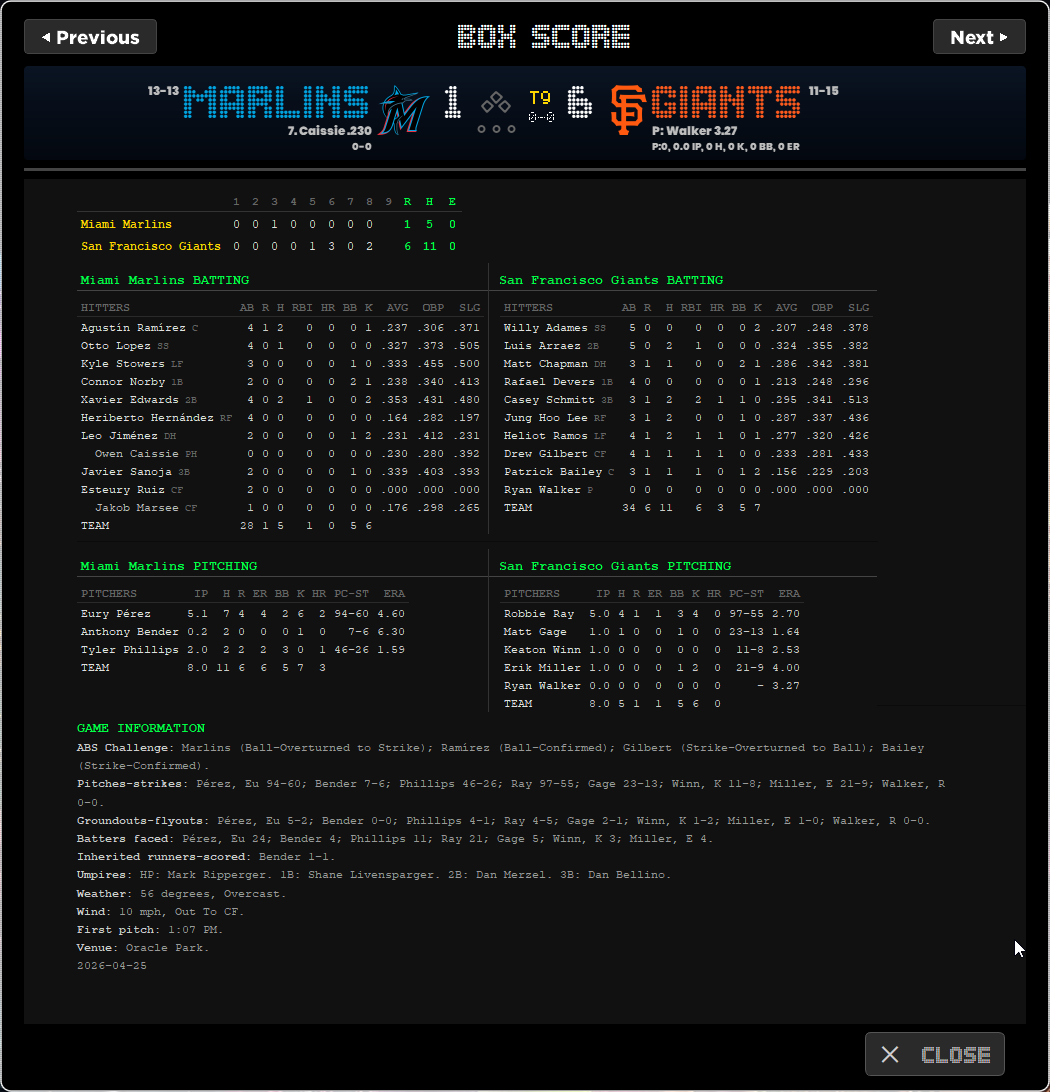
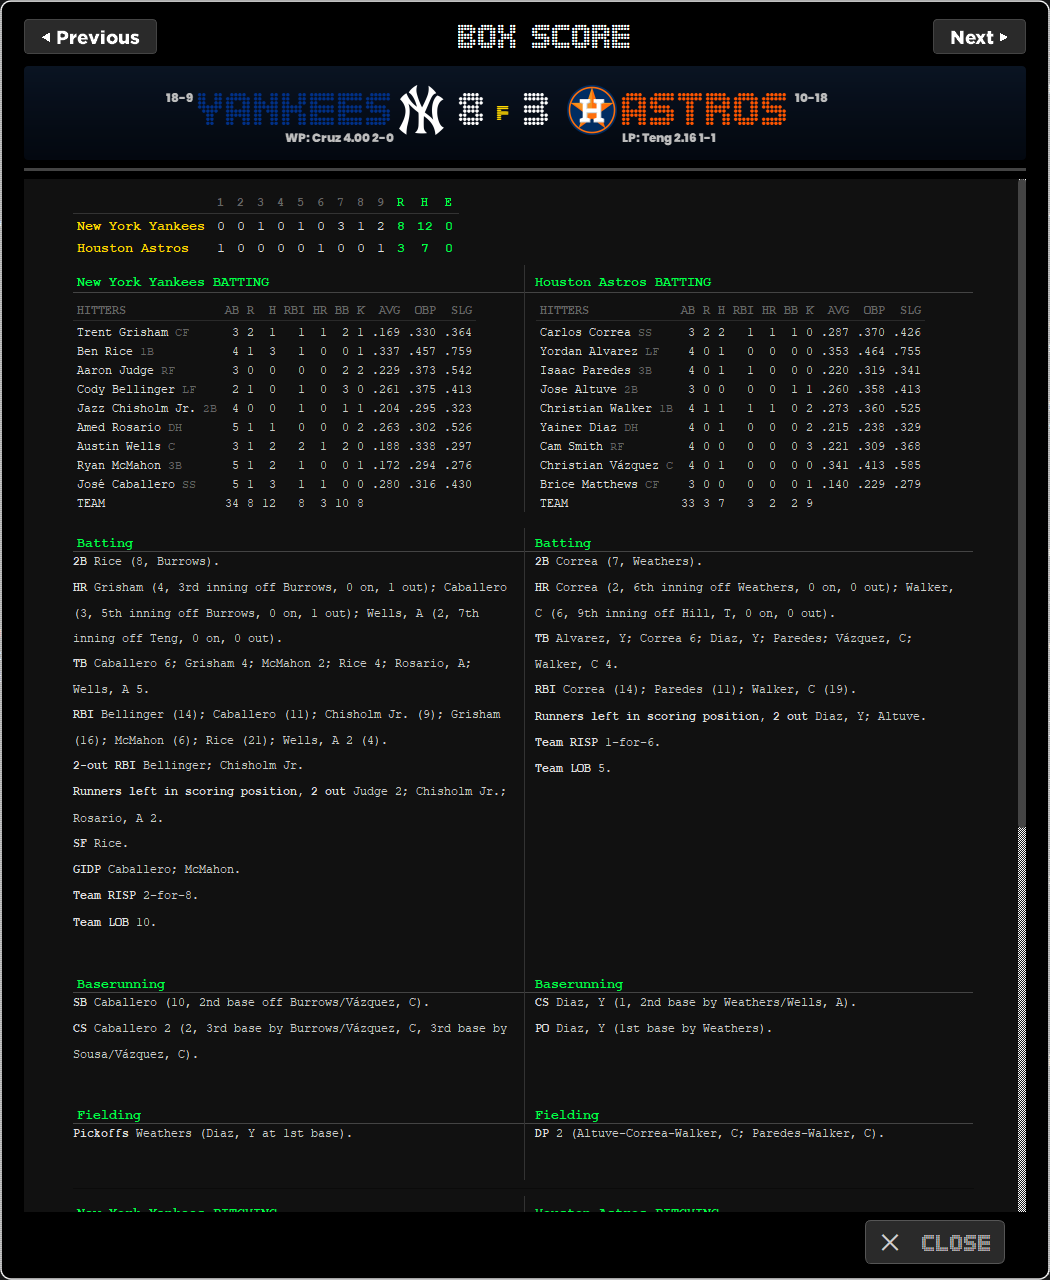
v1.5 Added complete Box Scores!

diff --git a/docs/index.html b/docs/index.html
@@ -28,6 +28,7 @@
       <div class="nav-links">
         <a href="#features">Features</a>
         <a href="#standings">Standings</a>
+        <a href="#boxscores">Box Scores</a>
         <a href="#tvradio">TV &amp; Radio</a>
         <a href="#highlights">Highlights</a>
         <a href="#download">Download</a>
@@ -69,7 +70,7 @@
   </header>
 
   <section class="features" id="features">
-    <h2 class="section-title">All the game energy,<br/>without the clutter.</h2>
+    <h2 class="section-title">All the game energy,<br/>pixel perfect.</h2>
     <p class="section-sub">Designed to feel like a modern sports-bar ticker on your own desktop.</p>
 
     <div class="features-grid">
@@ -148,16 +149,25 @@
   </section>
 
   <section class="standings-showcase" id="standings">
-    <h2 class="section-title">Standings. Just one keystroke away.</h2>
-    <p class="section-sub">Switch between American League and National League with a single click. Every division, every team, live.</p>
+    <h2 class="section-title">Standings. If you're not first, you're last.</h2>
+    <p class="section-sub">Press S and then switch between American League and National League with a single click. Every division, every team, live.</p>
     <div class="standings-img-wrap">
       <img src="standings.png" alt="MLB-TCKR Standings Window" class="standings-img" id="standings-rotating-img" />
       <span class="screenshot-label">AL &amp; NL Standings window with live division data</span>
     </div>
   </section>
 
+  <section class="standings-showcase" id="boxscores">
+    <h2 class="section-title">Box Scores. All the numbers and some letters too.</h2>
+    <p class="section-sub">Press <kbd>B</kbd> or double-click on your team in the ticker for live box scores updated in real-time. Yesterday&rsquo;s box scores available too.</p>
+    <div class="standings-img-wrap">
+      <img src="boxscore.png" alt="MLB-TCKR Box Score Window" class="standings-img" />
+      <span class="screenshot-label">Box Score with live and historical data</span>
+    </div>
+  </section>
+
   <section class="standings-showcase" id="tvradio">
-    <h2 class="section-title">TV, Radio &amp; SiriusXM. Every game, every channel.</h2>
+    <h2 class="section-title">TV, Radio &amp; SiriusXM guide Every game, every channel.</h2>
     <p class="section-sub">Press <kbd>M</kbd> or right-click the tray to open the broadcast guide. TV call signs, radio stations with frequencies, and SiriusXM satellite &amp; app channels &mdash; for today or tomorrow.</p>
     <div class="standings-img-wrap">
       <img src="tvradioxm.png" alt="MLB-TCKR TV/Radio/XM Schedule Window" class="standings-img" />
@@ -180,7 +190,7 @@
   </section>
 
   <section class="how-it-works">
-    <h2 class="section-title">Ready in minutes.</h2>
+    <h2 class="section-title">Ready in seconds.</h2>
     <p class="section-sub">Fast to launch, easy to personalize, built for everyday baseball fans.</p>
 
     <div class="steps-grid">

diff --git a/MLB-TCKR.py b/MLB-TCKR.py
@@ -1,7 +1,7 @@
 """
 Author: Paul R. Charovkine
 Program: MLB-TCKR.py
-Date: 2026.0426.0110
+Date: 2026.0426.0919
 License: GNU AGPLv3
 
 Description:
@@ -6565,7 +6565,7 @@ class BoxScoreWindow(QtWidgets.QWidget):
             "QPushButton:hover { background:#3a3a3a; color:#ffffff; }"
             "QPushButton:pressed { background:#111; }"
         )
-        close_btn.clicked.connect(lambda: self.close())
+        close_btn.clicked.connect(lambda: self.close()) # type: ignore
         close_row.addWidget(close_btn)
         # Resize grip in bottom-right corner
         _grip = QtWidgets.QSizeGrip(self)
@@ -6835,13 +6835,13 @@ class BoxScoreWindow(QtWidgets.QWidget):
         css = """
         <style>
         body { background:#111; color:#e0e0e0; font-family:'Courier New',monospace;
-               font-size:12px; margin:8px; }
+               font-size:13px; margin:8px; }
         table { border-collapse:collapse; }
         /* ── centring wrapper (unused – kept for fallback) ── */
         .center-wrap { max-width:900px; }
         /* ── line score ── */
         .ls { width:100%; margin-bottom:6px; }
-        .ls th { color:#666; text-align:center; padding:3px 6px; font-size:11px;
+        .ls th { color:#666; text-align:center; padding:3px 6px; font-size:12px;
                  border-bottom:1px solid #333; }
         .ls td { text-align:center; padding:3px 6px; }
         .ls .tn { text-align:left; color:#FFD700; font-weight:bold;
@@ -6849,20 +6849,20 @@ class BoxScoreWindow(QtWidgets.QWidget):
         .ls .rhe { color:#00FF44; font-weight:bold; }
         .ls .inn0 { color:#555; }
         /* ── decisions ── */
-        .dec { margin:4px 0 8px; font-size:12px; }
+        .dec { margin:4px 0 8px; font-size:13px; }
         .win  { color:#00FF44; }
         .loss { color:#FF4444; }
         .save { color:#FFD700; }
         /* ── main two-column layout table ── */
         .layout { width:100%; border-collapse:collapse; }
         /* section header cells — aligned on the same row */
-        .sh-cell { color:#00FF44; font-weight:bold; font-size:13px;
+        .sh-cell { color:#00FF44; font-weight:bold; font-size:14px;
                    padding:8px 4px 3px; border-bottom:1px solid #444;
                    width:50%; vertical-align:bottom; }
         .sh-cell.div { border-left:1px solid #333; padding-left:10px; }
         /* sub-section header cells (Batting / Baserunning / Fielding) */
-        .sub-sh-cell { color:#CCCCCC; font-weight:bold; font-size:12px;
-                       padding:6px 4px 1px; border-bottom:1px solid #222;
+        .sub-sh-cell { color:#00FF44; font-weight:bold; font-size:14px;
+                       padding:6px 4px 1px; border-bottom:1px solid #444;
                        vertical-align:bottom; }
         .sub-sh-cell.div { border-left:1px solid #333; padding-left:10px; }
         /* stat and notes content cells */
@@ -6872,32 +6872,32 @@ class BoxScoreWindow(QtWidgets.QWidget):
         .notes-col.div { border-left:1px solid #333; padding-left:10px; }
         /* ── stats tables ── */
         .st { width:100%; margin-top:4px; }
-        .st th { color:#666; text-align:right; padding:2px 4px; font-size:11px;
+        .st th { color:#666; text-align:right; padding:2px 4px; font-size:12px;
                  border-bottom:1px solid #2a2a2a; white-space:nowrap; }
         .st th.lc { text-align:left; }
-        .st td { padding:2px 4px; text-align:right; font-size:11px;
+        .st td { padding:2px 4px; text-align:right; font-size:12px;
                  color:#ccc; white-space:nowrap; }
         .st td.lc { text-align:left; color:#e0e0e0; }
         .st tr:nth-child(even) { background:#181818; }
         .st tr.tot { color:#888; border-top:1px solid #2a2a2a; }
-        .pos { color:#666; font-size:10px; }
+        .pos { color:#666; font-size:11px; }
         .sub { color:#bbb; }
         /* ── notes ── */
-        .notes { color:#ccc; font-size:11px; padding:3px 0 2px; line-height:1.65; }
+        .notes { color:#ccc; font-size:12px; padding:3px 0 2px; line-height:1.65; }
         .notes b { color:#e0e0e0; }
         /* ── pitcher decision badges ── */
-        .win-dec  { color:#39ff14; font-size:10px; }
-        .loss-dec { color:#ff5555; font-size:10px; }
-        .save-dec { color:#f5d131; font-size:10px; }
-        .hold-dec { color:#8FBCE6; font-size:10px; }
-        .bsv-dec  { color:#FFA550; font-size:10px; }
+        .win-dec  { color:#39ff14; font-size:11px; }
+        .loss-dec { color:#ff5555; font-size:11px; }
+        .save-dec { color:#f5d131; font-size:11px; }
+        .hold-dec { color:#8FBCE6; font-size:11px; }
+        .bsv-dec  { color:#FFA550; font-size:11px; }
         /* ── substitution footnote notes ── */
-        .sub-notes { color:#ccc; font-size:11px; padding:2px 0 4px; line-height:1.65; }
+        .sub-notes { color:#ccc; font-size:12px; padding:2px 0 4px; line-height:1.65; }
         .sub-notes .fn { color:#888; }
         /* ── game info section ── */
-        .gi { color:#999; font-size:11px; padding:4px 0; line-height:1.3; }
+        .gi { color:#999; font-size:12px; padding:4px 0; line-height:1.3; }
         .gi b { color:#CCCCCC; }
-        .gi-header { color:#00FF44; font-weight:bold; font-size:13px;
+        .gi-header { color:#00FF44; font-weight:bold; font-size:14px;
                      padding:8px 4px 3px; border-bottom:1px solid #444;
                      display:block; margin-bottom:4px; }
         hr.d { border:none; border-top:1px solid #2a2a2a; margin:8px 0; }
@@ -6932,6 +6932,23 @@ class BoxScoreWindow(QtWidgets.QWidget):
         parts.append('</td>')
         parts.append('</tr>')
 
+        # Blank spacer row after TEAM totals
+        parts.append('<tr><td colspan="2" style="height:6px;"></td></tr>')
+
+        # Substitution footnote notes (a-Singled for..., 1-Ran for..., etc.)
+        # Placed directly below TEAM totals, above Batting/Baserunning/Fielding notes.
+        away_sub_notes = self._build_substitution_notes_html(away_data)
+        home_sub_notes = self._build_substitution_notes_html(home_data)
+        if away_sub_notes or home_sub_notes:
+            parts.append('<tr>')
+            parts.append('<td class="notes-col">')
+            parts.append(away_sub_notes or '')
+            parts.append('</td>')
+            parts.append('<td class="notes-col div">')
+            parts.append(home_sub_notes or '')
+            parts.append('</td>')
+            parts.append('</tr>')
+
         # Note sub-sections: Batting / Baserunning / Fielding — headers aligned
         for section in ('BATTING', 'BASERUNNING', 'FIELDING'):
             away_items = self._get_notes_items(away_data, section)
@@ -6950,19 +6967,6 @@ class BoxScoreWindow(QtWidgets.QWidget):
                 parts.append(self._build_notes_from_items(home_items))
                 parts.append('</td>')
                 parts.append('</tr>')
-
-        # Substitution footnote notes (a-Singled for..., 1-Ran for..., etc.)
-        away_sub_notes = self._build_substitution_notes_html(away_data)
-        home_sub_notes = self._build_substitution_notes_html(home_data)
-        if away_sub_notes or home_sub_notes:
-            parts.append('<tr>')
-            parts.append('<td class="notes-col">')
-            parts.append(away_sub_notes or '')
-            parts.append('</td>')
-            parts.append('<td class="notes-col div">')
-            parts.append(home_sub_notes or '')
-            parts.append('</td>')
-            parts.append('</tr>')
 
         # Separator
         parts.append('<tr class="sep-row"><td colspan="2"><hr class="d"></td></tr>')
@@ -7006,6 +7010,12 @@ class BoxScoreWindow(QtWidgets.QWidget):
 
         parts.append('</table>')
 
+        # ── Full-width Pitching notes (WP, IBB, HBP, Pitches-strikes, etc.) ──
+        pitching_notes_html = self._build_game_pitching_notes_html(game_info_list or [])
+        if pitching_notes_html:
+            parts.append('<hr class="d">')
+            parts.append(pitching_notes_html)
+
         # ── Full-width Game Information section ───────────────────────────────
         game_info_html = self._build_game_info_html(
             game_info_list or [], officials or [], game_datetime
@@ -7018,25 +7028,26 @@ class BoxScoreWindow(QtWidgets.QWidget):
         return ''.join(parts)
 
     def _get_notes_items(self, team_data, section_title):
-        """Return list of (label, value) tuples for a named section in team info."""
+        """Return list of (label, value) tuples for a named section in team info.
+
+        The statsapi boxscore_data() structure is:
+          info = [{'title': 'BATTING', 'fieldList': [{'label': '2B', 'value': '...'}, ...]}, ...]
+        """
         info = team_data.get('info', [])
         if not info:
             return []
         target = section_title.upper()
-        in_section = False
-        items = []
         for entry in info:
             title = (entry.get('title') or '').strip().upper()
-            label = (entry.get('label') or '').strip()
-            value = (entry.get('value') or '').strip()
             if title == target:
-                in_section = True
-                continue
-            elif title and in_section:
-                break  # next section started
-            if in_section and label and value:
-                items.append((label, value))
-        return items
+                items = []
+                for field in entry.get('fieldList', []):
+                    label = (field.get('label') or '').strip()
+                    value = (field.get('value') or '').strip()
+                    if label and value:
+                        items.append((label, value))
+                return items
+        return []
 
     def _build_notes_from_items(self, items):
         """Build HTML from a list of (label, value) tuples."""
@@ -7071,9 +7082,45 @@ class BoxScoreWindow(QtWidgets.QWidget):
             return ''
         return '<div class="sub-notes">' + '<br>'.join(lines) + '</div>'
 
+    @staticmethod
+    def _is_pitching_info_label(label: str) -> bool:
+        """Return True if this game_info label belongs in the Pitching notes section."""
+        lc = label.lower().strip()
+        _exact = frozenset({'wp', 'balk', 'balks', 'ibb', 'hbp', 'ejections',
+                            'disengagement violations', 'disengagement violation'})
+        if lc in _exact:
+            return True
+        _starts = (
+            'pitches-strikes', 'pitches/strikes',
+            'groundouts-flyouts', 'ground balls-fly balls',
+            'called strikes', 'first-pitch strikes',
+            'batters faced', 'inherited runners',
+            'game score', 'disengagement',
+        )
+        return any(lc.startswith(s) for s in _starts)
+
+    def _build_game_pitching_notes_html(self, game_info_list):
+        """Build a full-width Pitching notes section from game-level info items."""
+        rows = []
+        for item in game_info_list:
+            label = (item.get('label') or '').strip()
+            value = (item.get('value') or '').strip()
+            if not label or not value:
+                continue
+            if self._is_pitching_info_label(label):
+                rows.append((label, value))
+        if not rows:
+            return ''
+        parts = ['<div class="gi-header">Pitching</div>']
+        parts.append('<div class="gi">')
+        for label, value in rows:
+            parts.append(f'<b>{label}:</b> {value}<br>')
+        parts.append('</div>')
+        return ''.join(parts)
+
     def _build_game_info_html(self, game_info_list, officials, game_datetime=''):
         """Build the full-width game information section at the bottom."""
-        # Collect display items
+        # Collect display items (pitching-specific labels are rendered separately)
         rows = []
         has_umpires = False
         for item in game_info_list:
@@ -7081,6 +7128,8 @@ class BoxScoreWindow(QtWidgets.QWidget):
             value = (item.get('value') or '').strip()
             if not label or not value:
                 continue
+            if self._is_pitching_info_label(label):
+                continue  # shown in Pitching notes section instead
             if label.lower() == 'umpires':
                 has_umpires = True
             rows.append((label, value))
@@ -7120,7 +7169,7 @@ class BoxScoreWindow(QtWidgets.QWidget):
         if not rows:
             return ''
 
-        parts = ['<div class="gi-header">GAME INFORMATION</div>']
+        parts = ['<div class="gi-header">Game Information</div>']
         parts.append('<div class="gi">')
         for label, value in rows:
             if label:
@@ -7287,7 +7336,7 @@ class BoxScoreWindow(QtWidgets.QWidget):
             _raw_note = (_notes.get(pid_key) or player.get('note', '') or '').strip()
             fn = _raw_note[0] if _raw_note else ''
             if fn:
-                fn_html = f'<span class="fn-note" style="color:#888;font-size:10px;">{fn}-</span>'
+                fn_html = f'<span class="fn-note" style="color:#888;font-size:11px;">{fn}-</span>'
                 if is_sub:
                     name_cell = f'&nbsp;&nbsp;{fn_html}<span class="sub">{name}</span>'
                 else:
